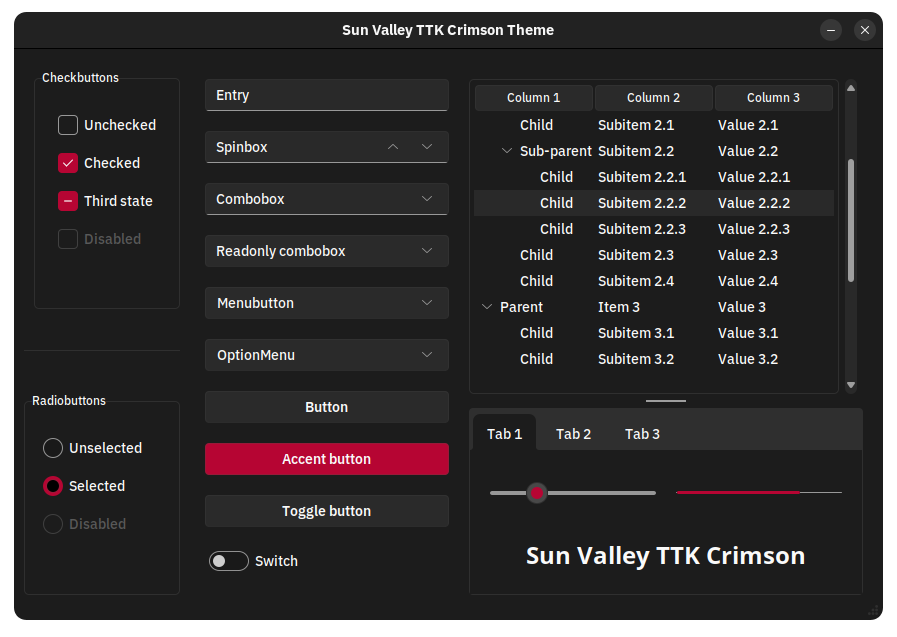
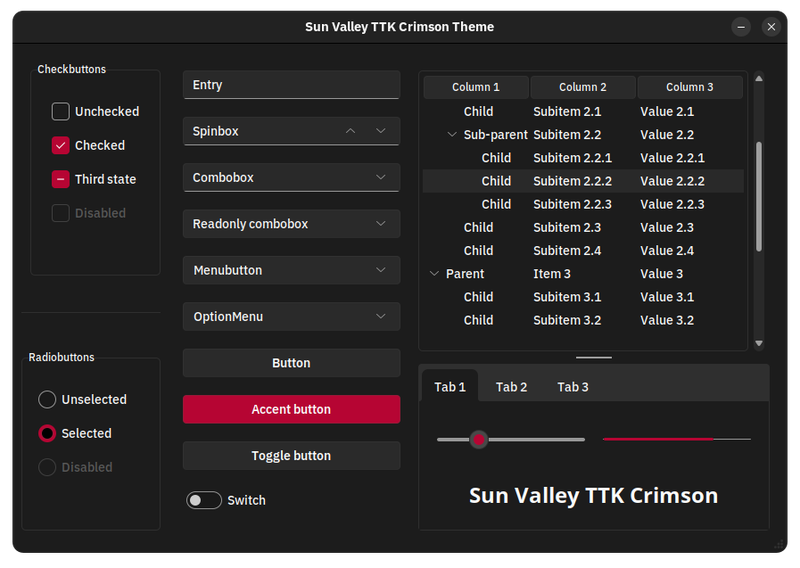
Image scaling issues.

diff --git a/README.md b/README.md
@@ -12,9 +12,10 @@ The theme has the main font declarations set to [IBM Plex Sans](https://fonts.go
 If you do not have either installed the default font from your OS will be used.  
 
 ## Crimson Dark
-![image](https://raw.githubusercontent.com/initiateit/Sun-Valley-ttk-crimson/main/assets/dark.png?token=GHSAT0AAAAAACON7JGNFT2VM6FYDTNLMAKYZP5KNCQ)  
+<img src="https://raw.githubusercontent.com/initiateit/Sun-Valley-ttk-crimson/main/assets/dark.png?token=GHSAT0AAAAAACON7JGNFT2VM6FYDTNLMAKYZP5KNCQ" alt="Crimson Dark" style="max-width: 100%; height: auto;">
 ## Crimson Light
-![image](https://raw.githubusercontent.com/initiateit/Sun-Valley-ttk-crimson/main/assets/light.png?token=GHSAT0AAAAAACON7JGNV7RC5WSCGKLRSLOKZP5KNTA)  
+<img src="https://raw.githubusercontent.com/initiateit/Sun-Valley-ttk-crimson/main/assets/light.png?token=GHSAT0AAAAAACON7JGNV7RC5WSCGKLRSLOKZP5KNTA" alt="Crimson Light" style="max-width: 100%; height: auto;">
+
 
 
 
